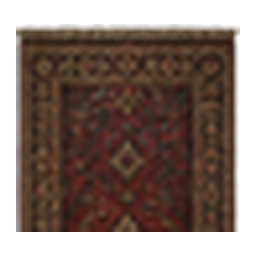
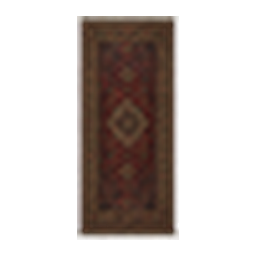
Fix Vault origin travel and keep carpets beneath room furnishings

diff --git a/core/src/test/java/com/shatteredpixel/shatteredpixeldungeon/acceptance/SmokeRun.java b/core/src/test/java/com/shatteredpixel/shatteredpixeldungeon/acceptance/SmokeRun.java
@@ -736,6 +736,7 @@ public class SmokeRun {
         check(!com.shatteredpixel.shatteredpixeldungeon.actors.mobs.npcs.Imp.Quest.isOld(),"v4 generated old Imp quest");
         check(com.shatteredpixel.shatteredpixeldungeon.actors.mobs.npcs.Imp.Quest.rewardOptions.size()==6,"v4 quest rewards missing");
         check(city.transitions.stream().anyMatch(t->t.destBranch==1),"v4 Vault entrance missing");
+        check(com.shatteredpixel.shatteredpixeldungeon.actors.mobs.npcs.Imp.Quest.vaultDepth()==19,"v4 entrance depth recorded");
         Dungeon.saveAll();
         Item originalArtifact=Dungeon.hero.belongings.artifact;
         int originalArtifactLevel=originalArtifact==null?-1:originalArtifact.level();
@@ -774,6 +775,35 @@ public class SmokeRun {
         com.shatteredpixel.shatteredpixeldungeon.actors.mobs.npcs.Imp.Quest.reset();
         com.shatteredpixel.shatteredpixeldungeon.actors.mobs.npcs.Imp.Quest.restoreFromBundle(quest);
         check(com.shatteredpixel.shatteredpixeldungeon.actors.mobs.npcs.Imp.Quest.isCompleted()&&com.shatteredpixel.shatteredpixeldungeon.actors.mobs.npcs.Imp.Quest.earnedShop(),"v4 completion/shop state lost");
+        // Old quest metadata has no entrance-depth field. Find the saved main
+        // floor's branch transition without replacing the live level/actors.
+        quest.getBundle("demon").put("vault_depth",0);
+        com.shatteredpixel.shatteredpixeldungeon.actors.mobs.npcs.Imp.Quest.restoreFromBundle(quest);
+        Level current=Dungeon.level;int position=Dungeon.hero.pos,branch=Dungeon.branch,depth=Dungeon.depth;
+        check(com.shatteredpixel.shatteredpixeldungeon.actors.mobs.npcs.Imp.Quest.vaultDepth()==19,"v4 legacy entrance recovered from saved City");
+        check(Dungeon.level==current&&Dungeon.hero.pos==position&&Dungeon.branch==branch&&Dungeon.depth==depth,"v4 metadata lookup mutated live floor");
+        Playtest.enable();
+        for(int requested:new int[]{16,17,18,19}){
+            Playtest.travel(requested,1);
+            check(Dungeon.branch==1&&Dungeon.depth==19&&Dungeon.level instanceof com.shatteredpixel.shatteredpixeldungeon.levels.VaultLevel,"v4 fake Vault floor normalized");
+            check(Dungeon.level.transitions.size()==1,"v4 single quest entrance, no invented stairs");
+            com.shatteredpixel.shatteredpixeldungeon.levels.VaultLevel actual=(com.shatteredpixel.shatteredpixeldungeon.levels.VaultLevel)Dungeon.level;
+            com.shatteredpixel.shatteredpixeldungeon.scenes.InterlevelScene.curTransition=null;
+            int next=-1;
+            for(int offset:com.watabou.utils.PathFinder.NEIGHBOURS8)if(actual.passable[Dungeon.hero.pos+offset]&&Actor.findChar(Dungeon.hero.pos+offset)==null){next=Dungeon.hero.pos+offset;break;}
+            check(next>=0,"v4 can leave arrival stairs");Dungeon.hero.move(next);
+            check(Dungeon.level==actual&&Dungeon.branch==1&&Dungeon.depth==19&&com.shatteredpixel.shatteredpixeldungeon.scenes.InterlevelScene.curTransition==null,"v4 moving in completed Playtest Vault must not auto-exit");
+            check(!actual.activateTransition(Dungeon.hero,actual.transitions.get(0)),"v4 Vault stairs cannot enter main floor below");
+            com.shatteredpixel.shatteredpixeldungeon.levels.features.LevelTransition exit=actual.returnTransition();
+            check(exit.destDepth==19&&exit.destBranch==0&&exit.destType==com.shatteredpixel.shatteredpixeldungeon.levels.features.LevelTransition.Type.BRANCH_EXIT,"v4 Escape Crystal returns to actual Imp entrance");
+            Dungeon.depth=requested;
+            check(actual.returnTransition().destDepth==19,"v4 old wrong-depth Vault returns to real portal");
+            Dungeon.depth=19;
+        }
+        com.shatteredpixel.shatteredpixeldungeon.scenes.InterlevelScene.curTransition=((com.shatteredpixel.shatteredpixeldungeon.levels.VaultLevel)Dungeon.level).returnTransition();
+        java.lang.reflect.Method ascend=com.shatteredpixel.shatteredpixeldungeon.scenes.InterlevelScene.class.getDeclaredMethod("ascend");ascend.setAccessible(true);
+        ascend.invoke(new com.shatteredpixel.shatteredpixeldungeon.scenes.InterlevelScene());
+        check(Dungeon.branch==0&&Dungeon.depth==19&&Dungeon.level.getTransition(Dungeon.hero.pos).destBranch==1,"v4 real return to saved Imp portal");
         for(Weapon.Enchantment enchant:new Weapon.Enchantment[]{new com.shatteredpixel.shatteredpixeldungeon.items.weapon.enchantments.Vorpal(),new com.shatteredpixel.shatteredpixeldungeon.items.weapon.enchantments.Venomous(),new com.shatteredpixel.shatteredpixeldungeon.items.weapon.enchantments.Crystal(),new com.shatteredpixel.shatteredpixeldungeon.items.weapon.enchantments.Eldritch(),new com.shatteredpixel.shatteredpixeldungeon.items.weapon.curses.Pressurized(),new com.shatteredpixel.shatteredpixeldungeon.items.weapon.curses.Wondrous()}){
             Weapon weapon=new com.shatteredpixel.shatteredpixeldungeon.items.weapon.melee.Dagger();weapon.enchant(enchant);
             Bundle bundle=new Bundle();bundle.put("weapon",weapon);Weapon restored=(Weapon)bundle.get("weapon");
@@ -783,7 +813,7 @@ public class SmokeRun {
                 check(EnchanterMagic.state().choices(false).contains(enchant.getClass()),"v4 enchantment cannot be learned for inscription");
             }
         }
-        System.out.println("PASS V4 "+Dungeon.hero.heroClass+" Vault generation/save/load, mirror="+mirrorReward.getSimpleName()+", equipment restore, quest completion/shop and six enchantment/curses serialized");
+        System.out.println("PASS V4 "+Dungeon.hero.heroClass+" Vault generation/save/load, mirror="+mirrorReward.getSimpleName()+", equipment restore, quest completion/shop, four Playtest destinations normalized, legacy return metadata, walk off stairs and actual return; six enchantment/curses serialized");
     }
     private static void contentMessages() throws Exception {
         String[][] items={

diff --git a/desktop/src/main/java/com/shatteredpixel/shatteredpixeldungeon/desktop/DesktopSmokeProbe.java b/desktop/src/main/java/com/shatteredpixel/shatteredpixeldungeon/desktop/DesktopSmokeProbe.java
@@ -243,6 +243,7 @@ final class DesktopSmokeProbe extends ShatteredPixelDungeon {
                 Playtest.enable();Dungeon.hero.HT=Dungeon.hero.HP=1000;Dungeon.hero.lvl=30;Dungeon.gold=30000;
                 for(com.shatteredpixel.shatteredpixeldungeon.actors.mobs.Mob m:Dungeon.level.mobs)if(m instanceof com.shatteredpixel.shatteredpixeldungeon.actors.mobs.npcs.Cole)bountyCole=(com.shatteredpixel.shatteredpixeldungeon.actors.mobs.npcs.Cole)m;
                 if(bountyCole==null)throw new AssertionError("Generated office has no Cole");
+                officeLayersCheck();
                 for(int n:com.watabou.utils.PathFinder.NEIGHBOURS8)if(Dungeon.level.passable[bountyCole.pos+n]&&Actor.findChar(bountyCole.pos+n)==null){Dungeon.hero.pos=bountyCole.pos+n;break;}
                 Dungeon.hero.sprite.place(Dungeon.hero.pos);Dungeon.observe();Camera.main.snapTo(Dungeon.hero.sprite.center());return;
             }
@@ -2273,6 +2274,22 @@ final class DesktopSmokeProbe extends ShatteredPixelDungeon {
                     capture("imp-shop-painted-skulls-dais");prepareRooms(7);switchNoFade(GameScene.class);break;
                 case 19:
                     regionalAtlasCheck();
+                    vaultHangingsCheck();
+                    // The prior room step deliberately completed the Imp quest.
+                    // A Playtest revisit must still let the player leave the stairs.
+                    Playtest.enable();
+                    questField(com.shatteredpixel.shatteredpixeldungeon.actors.mobs.npcs.Imp.Quest.class,"spawned",true);
+                    questField(com.shatteredpixel.shatteredpixeldungeon.actors.mobs.npcs.Imp.Quest.class,"oldQuest",false);
+                    questField(com.shatteredpixel.shatteredpixeldungeon.actors.mobs.npcs.Imp.Quest.class,"completed",true);
+                    com.shatteredpixel.shatteredpixeldungeon.scenes.InterlevelScene.curTransition=null;
+                    int arrival=Dungeon.hero.pos;
+                    for(int offset:com.watabou.utils.PathFinder.NEIGHBOURS8)
+                        if(Dungeon.level.passable[arrival+offset] && Actor.findChar(arrival+offset)==null){Dungeon.hero.move(arrival+offset);break;}
+                    if(Dungeon.hero.pos==arrival || Dungeon.branch!=1 || !(Game.scene() instanceof GameScene)
+                            || com.shatteredpixel.shatteredpixeldungeon.scenes.InterlevelScene.curTransition!=null)
+                        throw new AssertionError("Completed Playtest Vault ejected hero walking off stairs");
+                    Dungeon.hero.sprite.place(Dungeon.hero.pos);Dungeon.observe();
+                    System.out.println("VAULT WALK NATIVE PASS: completed Playtest Vault stays on branch while leaving stairs");
                     for(com.shatteredpixel.shatteredpixeldungeon.tiles.CustomTilemap tile:Dungeon.level.customTiles)
                         if(tile instanceof com.shatteredpixel.shatteredpixeldungeon.levels.rooms.quest.vault.VaultEntranceRoom.QuestEntranceInternal){
                             com.watabou.noosa.Tilemap map=(com.watabou.noosa.Tilemap)RecoveryChecks.field(tile,"vis");
@@ -2292,6 +2309,36 @@ final class DesktopSmokeProbe extends ShatteredPixelDungeon {
                     switchNoFade(com.shatteredpixel.shatteredpixeldungeon.scenes.AmuletScene.class);break;
             }
         } catch(ReflectiveOperationException error){throw new AssertionError(error);}
+    }
+    private void officeLayersCheck() {
+        com.shatteredpixel.shatteredpixeldungeon.tiles.BountyOfficeTiles.Rug rug=null;
+        com.shatteredpixel.shatteredpixeldungeon.tiles.BountyOfficeTiles furniture=null;
+        for(com.shatteredpixel.shatteredpixeldungeon.tiles.CustomTilemap tile:Dungeon.level.customTiles){
+            if(tile instanceof com.shatteredpixel.shatteredpixeldungeon.tiles.BountyOfficeTiles.Rug)
+                rug=(com.shatteredpixel.shatteredpixeldungeon.tiles.BountyOfficeTiles.Rug)tile;
+            else if(tile instanceof com.shatteredpixel.shatteredpixeldungeon.tiles.BountyOfficeTiles)
+                furniture=(com.shatteredpixel.shatteredpixeldungeon.tiles.BountyOfficeTiles)tile;
+        }
+        if(rug==null || furniture==null || Dungeon.level.customTiles.indexOf(rug)>=Dungeon.level.customTiles.indexOf(furniture))
+            throw new AssertionError("Office rug must precede furnishings");
+        com.watabou.utils.Bundle bundle=new com.watabou.utils.Bundle();rug.storeInBundle(bundle);
+        if(!java.util.Arrays.equals(bundle.getIntArray("office_art"),new int[]{0,1,2,3,4,5,6,7,8}))
+            throw new AssertionError("Rug painting has missing or mismatched sections");
+        furniture.storeInBundle(bundle);
+        for(int frame:bundle.getIntArray("office_art"))if(frame>=0 && frame<9)throw new AssertionError("Rug still aliases furniture");
+    }
+    private void vaultHangingsCheck() throws ReflectiveOperationException {
+        for(com.shatteredpixel.shatteredpixeldungeon.tiles.CustomTilemap tile:Dungeon.level.customTerrain){
+            if(!(tile instanceof com.shatteredpixel.shatteredpixeldungeon.levels.rooms.quest.AmbitiousImpRoom.WallBanners))continue;
+            com.watabou.noosa.Tilemap map=(com.watabou.noosa.Tilemap)RecoveryChecks.field(tile,"vis");
+            for(int y=0;y<tile.tileH;y++)for(int x=0;x<tile.tileW;x++){
+                Image image=map.image(x,y);if(image==null)continue;
+                int cell=tile.tileX+x+(tile.tileY+y)*Dungeon.level.width();
+                if(Dungeon.level.map[cell]!=Terrain.WALL)throw new AssertionError("Wall hanging covers floor or torch");
+                image.destroy();
+            }
+        }
+        System.out.println("VAULT FURNISHINGS NATIVE PASS: hangings confined to plain walls");
     }
     private void regionalAtlasCheck(){
         for(com.shatteredpixel.shatteredpixeldungeon.tiles.CustomTilemap tile:Dungeon.level.customTiles){

diff --git a/core/src/test/java/com/shatteredpixel/shatteredpixeldungeon/acceptance/BountyScenario.java b/core/src/test/java/com/shatteredpixel/shatteredpixeldungeon/acceptance/BountyScenario.java
@@ -47,7 +47,24 @@ final class BountyScenario {
                 level.customTiles.removeIf(t->t instanceof com.shatteredpixel.shatteredpixeldungeon.tiles.BountyOfficeTiles);
                 BountyBoard.arrive(level);BountyBoard.arrive(level);
                 for(Heap heap:originalDisplays)check(level.heaps.get(heap.pos)==heap,"presentation migration preserves actual stock");
-                check(level.customTiles.stream().filter(t->t instanceof com.shatteredpixel.shatteredpixeldungeon.tiles.BountyOfficeTiles).count()==1,"presentation migration is idempotent");
+                check(level.customTiles.stream().filter(t->t instanceof com.shatteredpixel.shatteredpixeldungeon.tiles.BountyOfficeTiles).count()==2,"two office layers; migration is idempotent");
+                com.shatteredpixel.shatteredpixeldungeon.tiles.BountyOfficeTiles furniture=(com.shatteredpixel.shatteredpixeldungeon.tiles.BountyOfficeTiles)
+                        level.customTiles.stream().filter(t->t instanceof com.shatteredpixel.shatteredpixeldungeon.tiles.BountyOfficeTiles
+                                && !(t instanceof com.shatteredpixel.shatteredpixeldungeon.tiles.BountyOfficeTiles.Rug)).findFirst().get();
+                // Simulate an old mixed layer with part of its carpet overwritten by a display.
+                level.customTiles.removeIf(t->t instanceof com.shatteredpixel.shatteredpixeldungeon.tiles.BountyOfficeTiles.Rug);
+                furniture.put(cole.pos%level.width()-1,cole.pos/level.width()-1,0);
+                BountyBoard.arrive(level);BountyBoard.arrive(level);
+                com.shatteredpixel.shatteredpixeldungeon.tiles.BountyOfficeTiles.Rug rug=
+                        (com.shatteredpixel.shatteredpixeldungeon.tiles.BountyOfficeTiles.Rug)level.customTiles.get(0);
+                Bundle rugSave=new Bundle();rug.storeInBundle(rugSave);
+                check(java.util.Arrays.equals(rugSave.getIntArray("office_art"),new int[]{0,1,2,3,4,5,6,7,8}),"complete rug beneath furniture");
+                Bundle furnitureSave=new Bundle();furniture.storeInBundle(furnitureSave);
+                for(int frame:furnitureSave.getIntArray("office_art"))check(frame<0 || frame>8,"mixed carpet removed without furnishing fragments");
+                for(Heap heap:originalDisplays)check(level.heaps.get(heap.pos)==heap,"rug repair preserves stock");
+                check(level.customTiles.stream().filter(t->t instanceof com.shatteredpixel.shatteredpixeldungeon.tiles.BountyOfficeTiles).count()==2,"rug repair idempotent");
+                Bundle layers=new Bundle();layers.put("rug",rug);
+                check(layers.get("rug") instanceof com.shatteredpixel.shatteredpixeldungeon.tiles.BountyOfficeTiles.Rug,"rug save/load");
                 java.util.ArrayList<Heap> displays=new java.util.ArrayList<>();
                 for(Heap heap:level.heaps.valueList())if(BountyBoard.owns(heap))displays.add(heap);
                 for(Heap a:displays){

diff --git a/core/src/main/java/com/shatteredpixel/shatteredpixeldungeon/actors/mobs/npcs/Imp.java b/core/src/main/java/com/shatteredpixel/shatteredpixeldungeon/actors/mobs/npcs/Imp.java
@@ -219,6 +219,34 @@ public class Imp extends NPC {
 		public static int hazardFreebies; //player gets two free hits from hazards before they start penalizing score
 		public static boolean mirrorUsed = false;
 		private static int score; //Not the score used in rankings! This score has no penalty applied
+		private static int vaultDepth;
+
+		/** One Vault belongs to the actual Imp entrance, not to each City depth. */
+		public static int vaultDepth() {
+			if (vaultDepth == 0 && spawned && !oldQuest) {
+				// Older saves did not record it. Read only transition metadata, without
+				// loading actors, rerolling rooms or changing the current floor.
+				for (int depth = 16; depth <= 19; depth++) {
+					if (!Dungeon.levelHasBeenGenerated(depth, 0)) continue;
+					try {
+						Bundle level = com.watabou.utils.FileUtils.bundleFromFile(
+								com.shatteredpixel.shatteredpixeldungeon.GamesInProgress.depthFile(
+										com.shatteredpixel.shatteredpixeldungeon.GamesInProgress.curSlot, depth, 0)).getBundle("level");
+						for (com.watabou.utils.Bundlable data : level.getCollection("transitions")) {
+							com.shatteredpixel.shatteredpixeldungeon.levels.features.LevelTransition transition =
+									(com.shatteredpixel.shatteredpixeldungeon.levels.features.LevelTransition) data;
+							if (transition.destBranch == 1 && transition.type ==
+									com.shatteredpixel.shatteredpixeldungeon.levels.features.LevelTransition.Type.BRANCH_EXIT) {
+								return vaultDepth = depth;
+							}
+						}
+					} catch (java.io.IOException error) {
+						com.shatteredpixel.shatteredpixeldungeon.ShatteredPixelDungeon.reportException(error);
+					}
+				}
+			}
+			return vaultDepth;
+		}
 		
 		public static void reset() {
 			spawned = false;
@@ -229,6 +257,7 @@ public class Imp extends NPC {
 			hazardFreebies = 2;
 			mirrorUsed = false;
 			score = 0;
+			vaultDepth = 0;
 		}
 		
 		private static final String NODE        = "demon";
@@ -266,6 +295,7 @@ public class Imp extends NPC {
 				node.put( SCORE, score );
 				node.put( REWARD_OPTIONS, rewardOptions );
 				node.put( MIRROR_USED, mirrorUsed );
+				node.put( "vault_depth", vaultDepth );
 			}
 			
 			bundle.put( NODE, node );
@@ -274,6 +304,7 @@ public class Imp extends NPC {
 		public static void restoreFromBundle( Bundle bundle ) {
 
 			Bundle node = bundle.getBundle( NODE );
+			vaultDepth = 0;
 			
 			if (!node.isNull() && (spawned = node.getBoolean( SPAWNED ))) {
 
@@ -299,6 +330,7 @@ public class Imp extends NPC {
 				
 				given = node.getBoolean( GIVEN );
 				completed = node.getBoolean( COMPLETED );
+				vaultDepth = node.getInt("vault_depth");
 			}
 		}
 
@@ -307,6 +339,7 @@ public class Imp extends NPC {
 
 				rooms.add(new AmbitiousImpRoom());
 				spawned = true;
+				vaultDepth = Dungeon.depth;
 
 				oldQuest = false;
 				reward = null;

diff --git a/core/src/main/java/com/shatteredpixel/shatteredpixeldungeon/levels/rooms/special/BountyOfficeRoom.java b/core/src/main/java/com/shatteredpixel/shatteredpixeldungeon/levels/rooms/special/BountyOfficeRoom.java
@@ -27,10 +27,20 @@ public class BountyOfficeRoom extends SpecialRoom {
     }
     /** Upgrade an existing office's presentation without recreating stock or receipts. */
     public static void refreshPresentation(Level level){
-        if(!(level instanceof com.shatteredpixel.shatteredpixeldungeon.levels.RegularLevel)
-                || level.customTiles.stream().anyMatch(t->t instanceof com.shatteredpixel.shatteredpixeldungeon.tiles.BountyOfficeTiles))return;
+        if(!(level instanceof com.shatteredpixel.shatteredpixeldungeon.levels.RegularLevel))return;
         for(com.shatteredpixel.shatteredpixeldungeon.levels.rooms.Room room:((com.shatteredpixel.shatteredpixeldungeon.levels.RegularLevel)level).rooms()){
             if(!(room instanceof BountyOfficeRoom))continue;
+            // Repair the old mixed layer without moving stock, loot or actors.
+            for(com.shatteredpixel.shatteredpixeldungeon.tiles.CustomTilemap tile:level.customTiles){
+                if(tile instanceof com.shatteredpixel.shatteredpixeldungeon.tiles.BountyOfficeTiles
+                        && !(tile instanceof com.shatteredpixel.shatteredpixeldungeon.tiles.BountyOfficeTiles.Rug)){
+                    ((com.shatteredpixel.shatteredpixeldungeon.tiles.BountyOfficeTiles)tile).removeCarpet();
+                    if(level.customTiles.stream().noneMatch(t->t instanceof com.shatteredpixel.shatteredpixeldungeon.tiles.BountyOfficeTiles.Rug))
+                        level.customTiles.add(0,new com.shatteredpixel.shatteredpixeldungeon.tiles.BountyOfficeTiles.Rug(
+                                BountyBoard.officeCell%level.width(),BountyBoard.officeCell/level.width()));
+                    return;
+                }
+            }
             com.shatteredpixel.shatteredpixeldungeon.actors.mobs.npcs.BountyNotice board=null;
             for(com.shatteredpixel.shatteredpixeldungeon.actors.mobs.Mob mob:level.mobs)
                 if(mob instanceof com.shatteredpixel.shatteredpixeldungeon.actors.mobs.npcs.BountyNotice)board=(com.shatteredpixel.shatteredpixeldungeon.actors.mobs.npcs.BountyNotice)mob;
@@ -47,7 +57,7 @@ public class BountyOfficeRoom extends SpecialRoom {
         }
         com.shatteredpixel.shatteredpixeldungeon.tiles.BountyOfficeTiles art=
                 new com.shatteredpixel.shatteredpixeldungeon.tiles.BountyOfficeTiles(left,top,width(),height());
-        for(int dy=-1;dy<=1;dy++)for(int dx=-1;dx<=1;dx++)art.put(cx+dx,cy+dy,(dy+1)*3+dx+1);
+        level.customTiles.add(new com.shatteredpixel.shatteredpixeldungeon.tiles.BountyOfficeTiles.Rug(cx,cy));
         art.put(cx-1,top+2,16);art.put(cx,top+2,17);
         art.put(left+1,top+1,20);art.put(right-1,top+1,19);art.put(right-2,top+1,18);
         java.util.ArrayList<Heap> oldDisplays=new java.util.ArrayList<>();

diff --git a/core/src/main/java/com/shatteredpixel/shatteredpixeldungeon/ui/changelist/GrimhollowChanges.java b/core/src/main/java/com/shatteredpixel/shatteredpixeldungeon/ui/changelist/GrimhollowChanges.java
@@ -20,7 +20,10 @@ public final class GrimhollowChanges {
         release.addButton(new ChangeButton(icon.get(),title,text));
     }
     public static void addAllChanges(ArrayList<ChangeInfo> list) {
-        ChangeInfo r=release(list,"v1.29.11","The cavern does not sleep.");
+        ChangeInfo r=release(list,"v1.29.12","Vault travel and room furnishings.");
+        note(r,Icons.INFO,"The Imp's Vault","Playtest now enters the single Vault attached to this run's Imp entrance. Revisiting a completed Vault no longer ejects you on your first step. The Escape Crystal returns to the correct entrance, including older saves.");
+        note(r,Icons.JOURNAL,"Carpets and wall hangings","Cole's office rug remains whole beneath the furnishings. City and Vault wall hangings stay on plain wall faces and leave torches and floor paving clear.");
+        r=release(list,"v1.29.11","The cavern does not sleep.");
         note(r,Icons.WARNING,"Cavern scavengers","Spiders survive the broodmother's death. More scavengers can arrive from the darkness, including a new broodmother when none remains. The first victory keeps the climb open; returning creatures carry no renewed rewards. Playtest balance settings include the cavern's replenishment interval.");
         r=release(list,"v1.29.10","Dark veins in the rock.");
         note(r,Icons.INFO,"Mine ore","Dark ore is visible on side-facing rock and wall rims, using the mine's existing painted mineral. Crystal treasure pockets place their deposits on separate cells. Existing mines keep their terrain and collected ore.");

diff --git a/core/src/main/java/com/shatteredpixel/shatteredpixeldungeon/levels/rooms/quest/AmbitiousImpRoom.java b/core/src/main/java/com/shatteredpixel/shatteredpixeldungeon/levels/rooms/quest/AmbitiousImpRoom.java
@@ -191,8 +191,6 @@ public class AmbitiousImpRoom extends SpecialRoom {
 
 		private final int BANNER_1 = 80;
 		private final int BANNER_2 = 81;
-		private final int BANNER__BOTTOM = 82;
-
 		@Override
 		public void pos(int pos) {
 			super.pos(pos);
@@ -206,33 +204,26 @@ public class AmbitiousImpRoom extends SpecialRoom {
 			java.util.Arrays.fill(data, -1);
 			int cell = tileX + Dungeon.level.width()*tileY;
 
-			if (!Dungeon.level.passable[cell+1]){
+			if (Dungeon.level.map[cell+1] == Terrain.WALL){
 				data[1] = BANNER_1 + Random.Int(2);
-				data[1+tileW] = BANNER__BOTTOM;
 			}
 
-			if (!Dungeon.level.passable[cell+3]) {
+			if (Dungeon.level.map[cell+3] == Terrain.WALL) {
 				data[3] = BANNER_1 + Random.Int(2);
-				if (Dungeon.level.map[cell+3+Dungeon.level.width()] != Terrain.PEDESTAL) {
-					data[3 + tileW] = BANNER__BOTTOM;
-				}
 			}
 
-			if (!Dungeon.level.passable[cell+5]) {
+			if (Dungeon.level.map[cell+5] == Terrain.WALL) {
 				data[5] = BANNER_1 + Random.Int(2);
-				data[5 + tileW] = BANNER__BOTTOM;
 			}
 
 			cell += Dungeon.level.width();
 
-			if (!Dungeon.level.passable[cell]) {
+			if (Dungeon.level.map[cell] == Terrain.WALL) {
 				data[7] = BANNER_1 + Random.Int(2);
-				data[7 + tileW] = BANNER__BOTTOM;
 			}
 
-			if (!Dungeon.level.passable[cell+6]) {
+			if (Dungeon.level.map[cell+6] == Terrain.WALL) {
 				data[13] = BANNER_1 + Random.Int(2);
-				data[13 + tileW] = BANNER__BOTTOM;
 			}
 
 			v.map( data, tileW );

diff --git a/core/src/main/java/com/shatteredpixel/shatteredpixeldungeon/levels/VaultLevel.java b/core/src/main/java/com/shatteredpixel/shatteredpixeldungeon/levels/VaultLevel.java
@@ -208,6 +208,12 @@ public class VaultLevel extends CityLevel {
 		return false;
 	}
 
+	public LevelTransition returnTransition() {
+		int depth = Imp.Quest.vaultDepth();
+		return new LevelTransition(this, Dungeon.hero.pos, LevelTransition.Type.BRANCH_ENTRANCE,
+				depth == 0 ? Dungeon.depth : depth, 0, LevelTransition.Type.BRANCH_EXIT);
+	}
+
 	//only occurs in levelgen, no need to bundle these
 	// use arrays here as we want to be able to track and access indices
 	// this lets us garuntee an even distribution of loot
@@ -576,14 +582,10 @@ public class VaultLevel extends CityLevel {
 	public void occupyCell(Char ch) {
 		super.occupyCell(ch);
 		//extra check to ensure vault is left if quest is completed
-		if (ch == Dungeon.hero && (Imp.Quest.isCompleted() && !Imp.Quest.isOld())){
+		if (ch == Dungeon.hero && (Imp.Quest.isCompleted() && !Imp.Quest.isOld())
+				&& !com.shatteredpixel.shatteredpixeldungeon.Playtest.enabled()){
 			beforeTransition();
-			InterlevelScene.curTransition = new LevelTransition(Dungeon.level,
-					Dungeon.hero.pos,
-					LevelTransition.Type.BRANCH_ENTRANCE,
-					Dungeon.depth,
-					0,
-					LevelTransition.Type.BRANCH_EXIT);
+			InterlevelScene.curTransition = returnTransition();
 			InterlevelScene.mode = InterlevelScene.Mode.ASCEND;
 			Game.switchScene( InterlevelScene.class );
 		} else if (ch == Dungeon.hero) {

diff --git a/tools/painted/regional_scenery.py b/tools/painted/regional_scenery.py
@@ -97,8 +97,12 @@ def outputs():
     split(quest,p[6],24,3,3)
     from playtest_polish import panels as polish_panels
     banner=polish_panels('office')[2]
-    lo,hi=prop(Image.new('RGBA',(64,64)),banner,46,100)
-    put(quest,80,hi);put(quest,81,hi.transpose(Image.Transpose.FLIP_LEFT_RIGHT));put(quest,82,lo)
+    # Wall hangings must fit within one wall face. The former two-cell rug
+    # continued down onto walkable paving and covered wall-torch flames.
+    hanging=Image.new('RGBA',(64,64));cloth_art=fit(banner,40,44)
+    hanging.alpha_composite(cloth_art,((64-cloth_art.width)//2,18))
+    put(quest,80,hanging);put(quest,81,hanging.transpose(Image.Transpose.FLIP_LEFT_RIGHT))
+    put(quest,82,Image.new('RGBA',(64,64)))
     # Barrier uses authored metalwork rather than the obsolete neon pixel checker.
     barrier=fit(source('gate'),192,192)
     whole=Image.new('RGBA',(192,192));whole.alpha_composite(barrier,(0,(192-barrier.height)//2))

diff --git a/core/src/main/java/com/shatteredpixel/shatteredpixeldungeon/tiles/BountyOfficeTiles.java b/core/src/main/java/com/shatteredpixel/shatteredpixeldungeon/tiles/BountyOfficeTiles.java
@@ -15,6 +15,15 @@ public class BountyOfficeTiles extends CustomTilemap {
         if(x>=tileX && y>=tileY && x<tileX+tileW && y<tileY+tileH)
             data[x-tileX+(y-tileY)*tileW]=frame;
     }
+    public void removeCarpet() { for(int i=0;i<data.length;i++)if(data[i]>=0 && data[i]<=8)data[i]=-1; }
+    /** A floor layer independent of the desk and merchandise above it. */
+    public static class Rug extends BountyOfficeTiles {
+        public Rug() { super(); }
+        public Rug(int cx,int cy) {
+            super(cx-1,cy-1,3,3);
+            for(int y=0;y<3;y++)for(int x=0;x<3;x++)put(cx-1+x,cy-1+y,y*3+x);
+        }
+    }
     @Override public Tilemap create() { super.create();vis.map(data,tileW);return vis; }
     @Override public void storeInBundle(Bundle b) { super.storeInBundle(b);b.put("office_art",data); }
     @Override public void restoreFromBundle(Bundle b) { super.restoreFromBundle(b);data=b.getIntArray("office_art"); }

diff --git a/core/src/main/java/com/shatteredpixel/shatteredpixeldungeon/windows/WndPlaytest.java b/core/src/main/java/com/shatteredpixel/shatteredpixeldungeon/windows/WndPlaytest.java
@@ -345,8 +345,8 @@ public class WndPlaytest extends Window {
     private static void branchTravel(){
         List<Entry> rows=new ArrayList<>();
         for(int d=11;d<=14;d++){final int depth=d;rows.add(new Entry("Mine branch at floor "+d,()->travel(depth,1)));}
-        for(int d=16;d<=19;d++){final int depth=d;rows.add(new Entry("Imp Vault at floor "+d,()->travel(depth,1)));}
-        show("Mine and Imp Vault","Quest branches use their authored entrances and encounters.",rows,WndPlaytest::floors);
+        rows.add(new Entry("Imp Vault - this run's quest entrance",()->travel(19,1)));
+        show("Mine and Imp Vault","The Imp Vault is one quest floor, linked to the Imp's entrance in this run. It has no stairs to other Vault floors; use the Escape Crystal or floor travel to leave.",rows,WndPlaytest::floors);
     }
     private static void travel(int depth,int branch){
         Playtest.require();

diff --git a/core/src/main/java/com/shatteredpixel/shatteredpixeldungeon/Playtest.java b/core/src/main/java/com/shatteredpixel/shatteredpixeldungeon/Playtest.java
@@ -249,6 +249,11 @@ public final class Playtest {
             Dungeon.depth=d;Dungeon.branch=0;Dungeon.level=Dungeon.newLevel();
             Dungeon.saveLevel(GamesInProgress.curSlot);
         }
+        if(branch==1 && depth>=16){
+            int entrance=com.shatteredpixel.shatteredpixeldungeon.actors.mobs.npcs.Imp.Quest.vaultDepth();
+            if(entrance<16 || entrance>19)throw new IllegalStateException("This run has no Imp Vault entrance.");
+            depth=entrance;
+        }
         if (branch==DragonExpedition.BRANCH && DragonExpedition.returnCell<0) {
             Dungeon.depth=DragonExpedition.hunterDepth;Dungeon.branch=0;
             Level city=Dungeon.loadLevel(GamesInProgress.curSlot);
